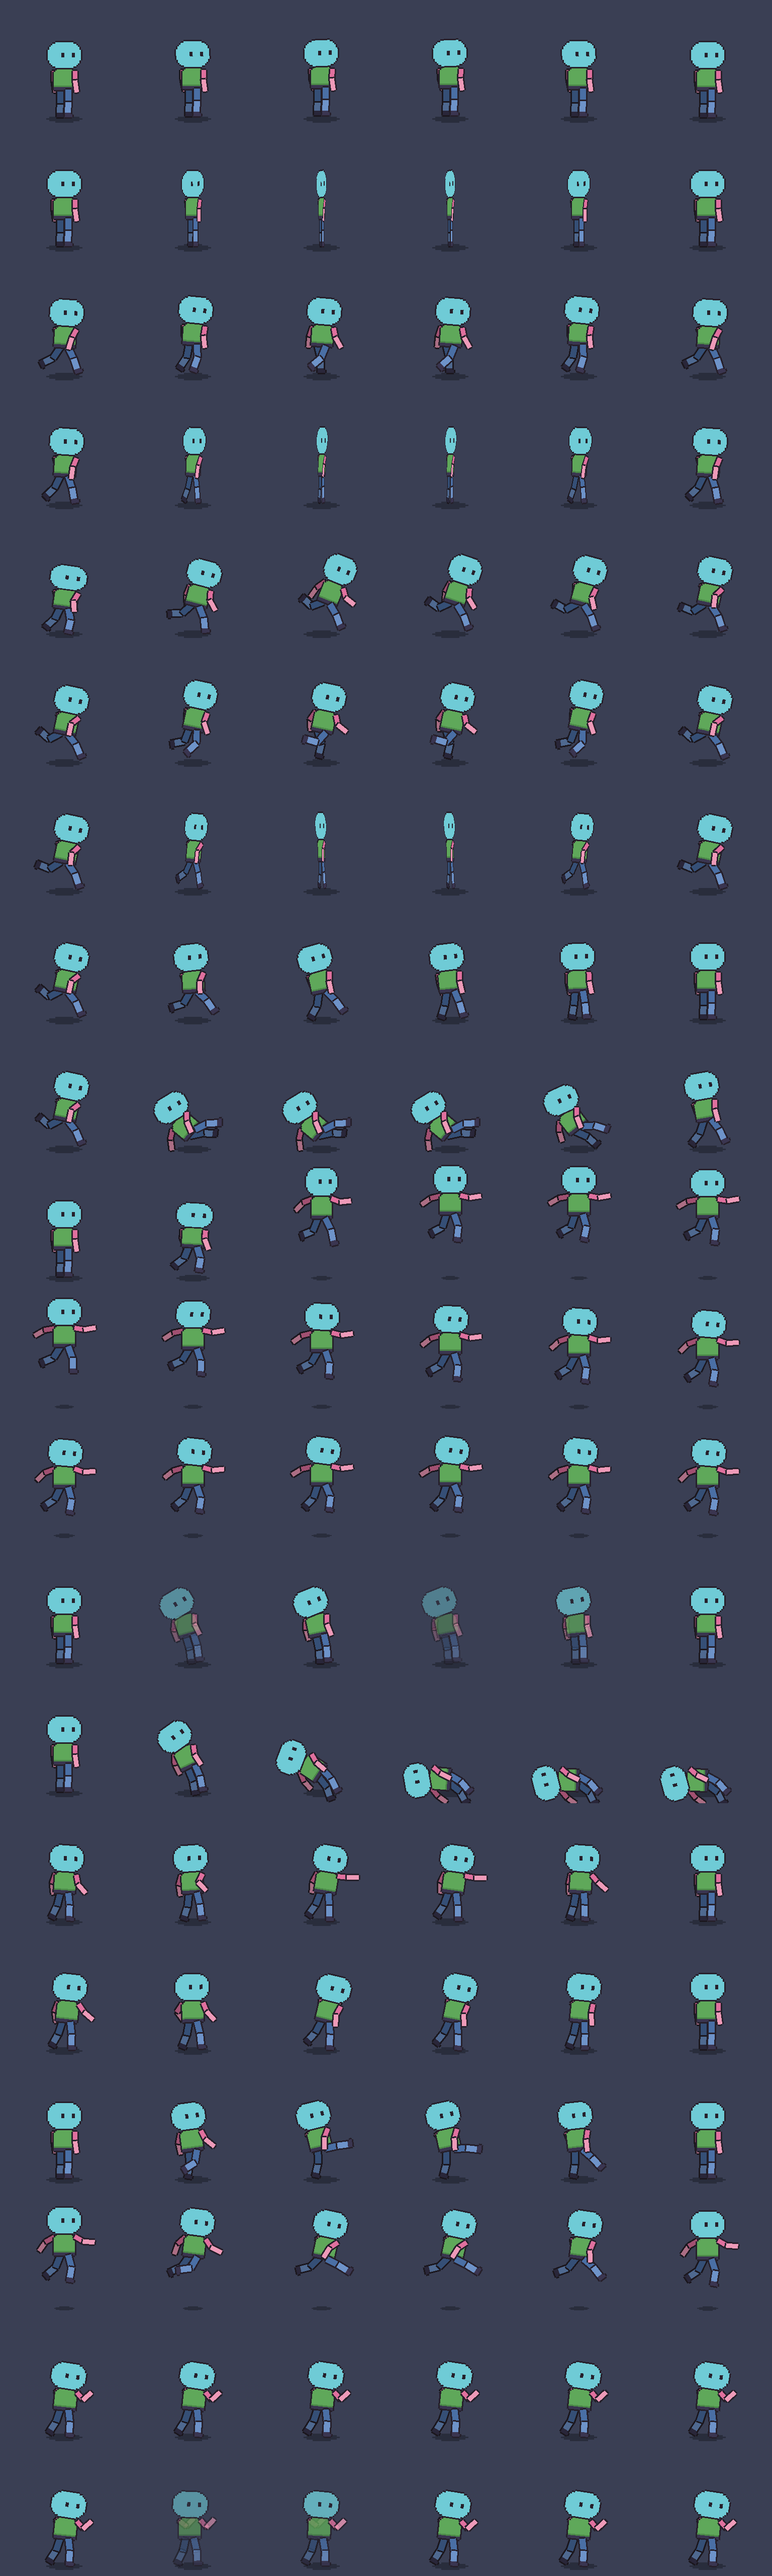
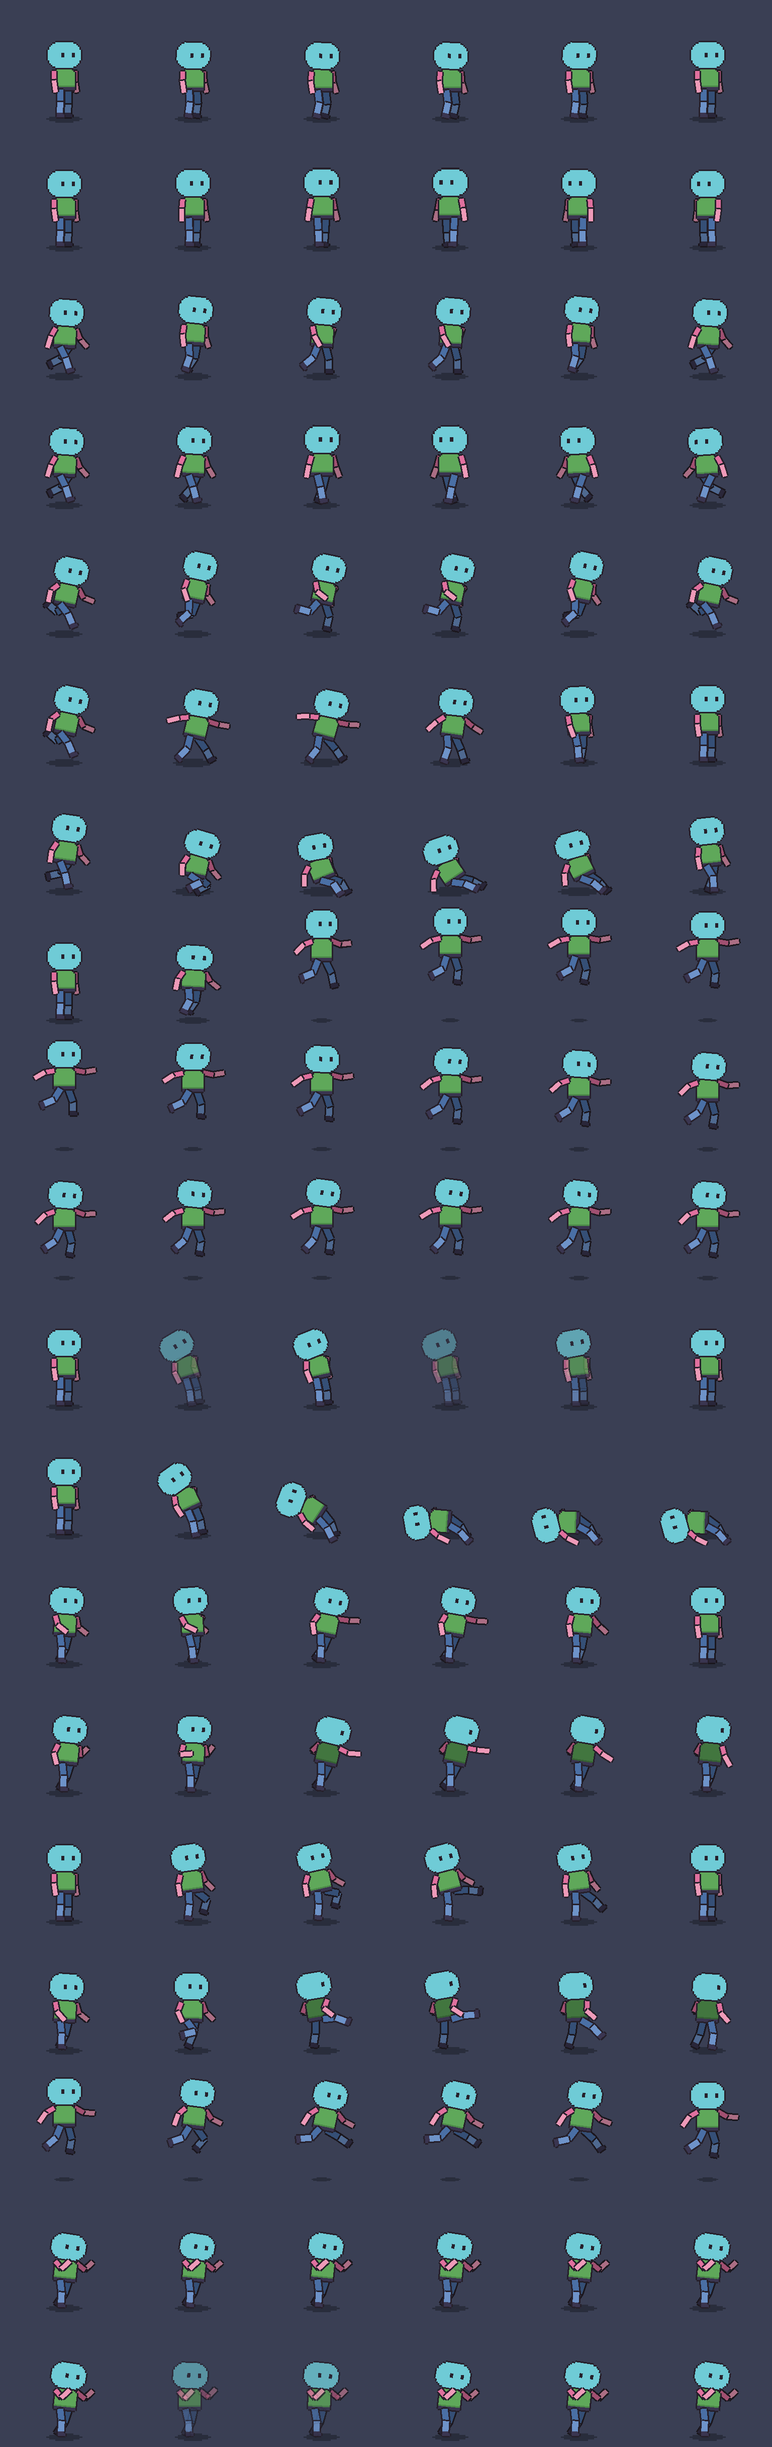
Fold the haymaker's idle fist harder
The non-punching arm's elbow bends to 130 degrees through the windup,
raising the fist into a guard.

diff --git a/editor/genpresets/clips.go b/editor/genpresets/clips.go
@@ -505,12 +505,12 @@ func punch2Clip() clipDef {
 	// The non-punching far arm stays folded from the very first frame —
 	// elbow bent hard, fist pulled in — so nothing about it reads as a
 	// second punch.
-	from := base().at(4, 0).lean(6).arms(20, -12).elbows(-40, -75).legs(-12, 12).knees(8, 12)
+	from := base().at(4, 0).lean(6).arms(20, -12).elbows(-40, -130).legs(-12, 12).knees(8, 12)
 	// The windup cocks the fist by folding the elbow — the upper arm
 	// barely leaves the side, nothing pulls back — and extension only
 	// begins at the spin frame.
-	wind := base().lean(2).arms(10, -15).elbows(-105, -70).legs(-10, 10).knees(8, 10)
-	windDeep := base().at(-1, 1).lean(4).arms(18, -16).elbows(-120, -75).legs(-10, 10).knees(8, 10)
+	wind := base().lean(2).arms(10, -15).elbows(-105, -130).legs(-10, 10).knees(8, 10)
+	windDeep := base().at(-1, 1).lean(4).arms(18, -16).elbows(-120, -130).legs(-10, 10).knees(8, 10)
 	// The rear arm folds through the back view: elbow bent hard so the
 	// forearm tucks across the turned body — hidden behind the torso,
 	// only the elbow showing at the trailing edge.
